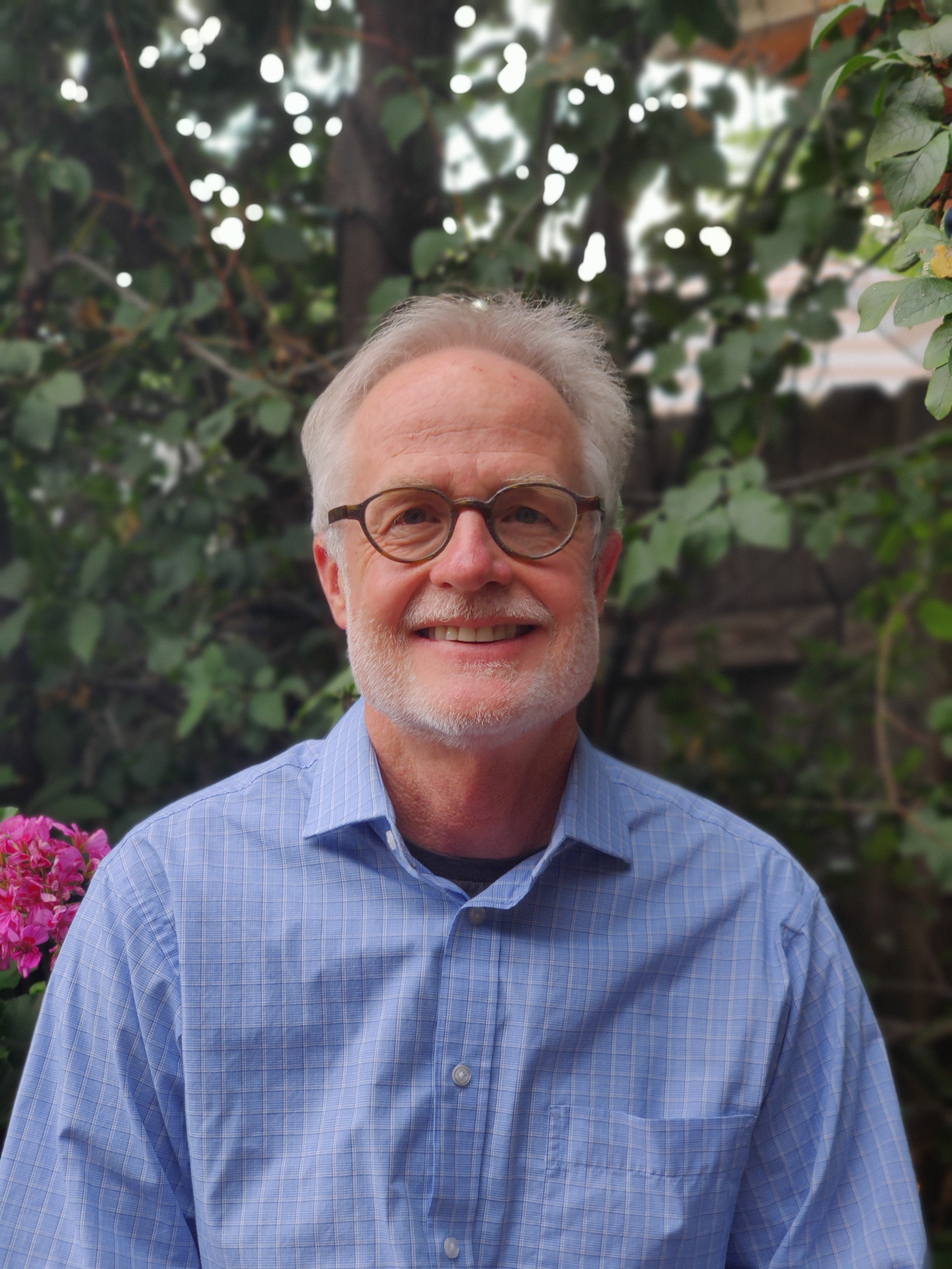
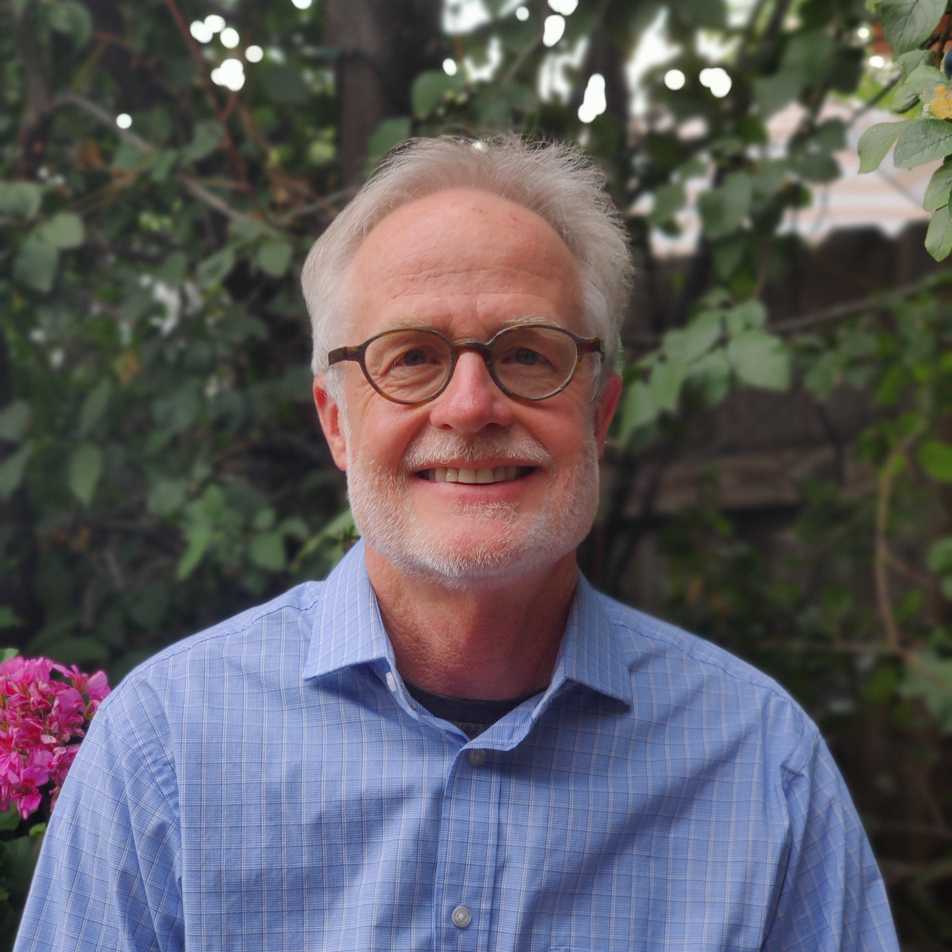
reinstated team section

diff --git a/src/Facilitators.js b/src/Facilitators.js
@@ -23,7 +23,7 @@ const DaneBio = 'Dane Fisher is a passionate children’s educator with several 
 
 const AlanaBio = "Alana is passionate about helping young people lead healthier, more balanced lives while working toward their academic and personal goals. Graduating magna cum laude from the University of Denver with a BA in psychology she worked closely with the learning effectiveness program mentoring incoming students and teaching them strategies for academic success.  She has extensive experience with anxious children, working in one of the university's research labs where she conducted a study about clinical anxiety in children and adolescence. In her free time, Alana loves to be active outdoors, skiing or snowshoeing in the winter and hiking year-round. She is also an avid fan of the arts and enjoys creative activities."
 
-const JoeBio = "After years of working alongside children of all ages while being homeschooled and teaching music in Boulder, Joe Goodhew went on to receive a BA in Philosophy and Religious Studies from Stanford University. At Stanford, he worked as part of the staff of Stanford’s Bing Nursery School where he gained experience working in a state-of-the-art laboratory/classroom alongside experienced teachers, psychologists, and musician-educators.  Since his time at Stanford, Joe has only become more excited to work alongside children in new schooling environments. Joe loves to cook, hike, read poetry, and play both piano and guitar."
+const JoeBio = 'After years of working alongside children of all ages while being homeschooled and teaching music in Boulder, Joe Goodhew went on to receive a BA in Philosophy and Religious Studies from Stanford University. At Stanford, he worked as part of the staff of Stanford’s Bing Nursery School where he gained experience working in a state-of-the-art laboratory/classroom alongside experienced teachers, psychologists, and musician-educators.  Since his time at Stanford, Joe has only become more excited to work alongside children in new schooling environments. Joe loves to cook, hike, read poetry, and play both piano and guitar.'
 
 const Facilitators = () => {
   return (
@@ -38,7 +38,6 @@ const Facilitators = () => {
         <FscCard name='Dane F.' img='/img/fsc/dane.jpg' bio={DaneBio} />
         <FscCard name='Alana R.' img='/img/fsc/alana.jpg' bio={AlanaBio} />
         <FscCard name='Joe G.' img='/img/fsc/joe.jpg' bio={JoeBio} />
-
 
       </CardContainer>
     </FscContainer>

diff --git a/src/Team.js b/src/Team.js
@@ -6,6 +6,7 @@ const TeamContainer = styled('div')`
     display: flex;
     flex-wrap: wrap;
     justify-content: center;
+    margin: 2rem 0;
 `
 
 const TeamHeader = styled('h1')`
@@ -19,10 +20,13 @@ const Team = () => {
       <TeamHeader>Team</TeamHeader>
       <TeamContainer>
         <TeamMember name='Mimi Ward MA, CALP' title='Founder & CEO' img='/img/team/mimi-avatar.jpg' />
-        <TeamMember name='Whitaker Fanestil' title='COO' img='/img/team/whit-avatar.jpg' />
-        <TeamMember name='Wilson Fanestil' title='CTO' img='/img/team/wilson-avatar.png' />
         <TeamMember name='Brad Fanestil MD' title='Mind/Body Specialist' img='/img/team/brad-avatar.jpg' />
-
+        <TeamMember name='Cathy Clark MA' title='Executive Coach Boulder Ed. Strategies' img='/img/team/cathy-avatar.jpg' />
+        <TeamMember
+          name='Eleni Arapkiles' title='
+          Literature and writing specialist
+          32 yr Bvsd English teacher' img='/img/team/leni-avatar.jpg'
+        />
       </TeamContainer>
     </>
 

diff --git a/src/TeamMember.js b/src/TeamMember.js
@@ -7,20 +7,24 @@ const TeamMemberContainer = styled('div')`
     display: inline-block;
 `
 
-const TeamMemberAvatar = styled('img')`
+const TeamMemberAvatar = styled('div')`
     width: 10rem;
     height: 10rem;
+    margin: 0 auto;
     border-radius: 50%;
-    object-fit: cover;
-    object-position: top;
     box-shadow: 5px 5px 25px #000;
-
+    overflow: hidden;
+    img{
+      width: 100%;
+    }
 `
 
 const TeamMember = ({ name, title, img }) => {
   return (
     <TeamMemberContainer>
-      <TeamMemberAvatar src={img} />
+      <TeamMemberAvatar>
+        <img src={img} />
+      </TeamMemberAvatar>
       <h5>{name}<br />
         {title}
       </h5>

diff --git a/pages/index.js b/pages/index.js
@@ -5,7 +5,7 @@ import Services from '../src/Services'
 import About from '../src/About'
 import Facilitators from '../src/Facilitators'
 import Financials from '../src/Financials'
-// import Team from '../src/Team'
+import Team from '../src/Team'
 
 const RootContainer = styled('div')`
   position: relative;
@@ -50,6 +50,7 @@ const Home = ({ components }) => {
       <About />
       <ImgBanner bg='/img/IMG_20200817_102320_Bokeh.jpg' slides={slides[2]} />
       <Facilitators />
+      <Team />
       <ImgBanner bg='/img/IMG_20200817_102428.jpg' slides={slides[3]} />
       <Financials />
     </RootContainer>
